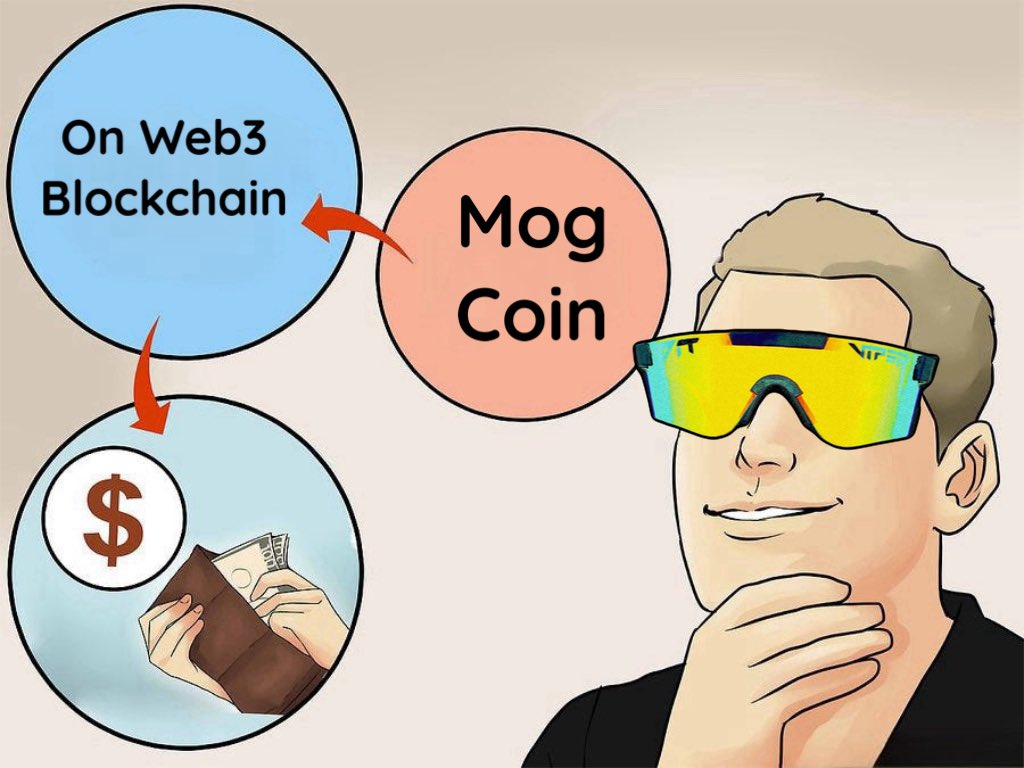
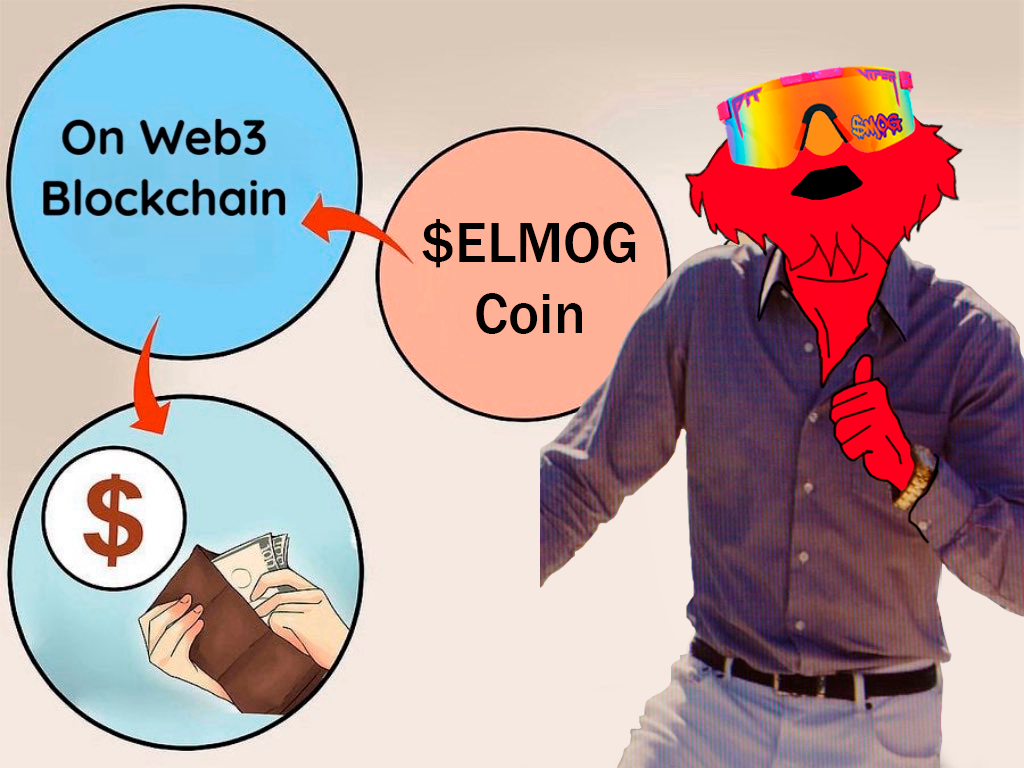
.

diff --git a/components/Footer.js b/components/Footer.js
@@ -24,15 +24,15 @@ export default function Footer() {
               </div>
             </div>
         <div className={`footerAlign ${styles.alignBox}`}>
-          <div className='title'><span >$MOG</span></div>
+          <div className='title'><span >$ELMOG</span></div>
           <div className='socialsContainer'>
-          <a href="https://t.me/mogsoltoken" target="_BLANK" rel="noreferrer">
+          <a href="https://t.me/#" target="_BLANK" rel="noreferrer">
             <div className='socialBox'>
               <Image src="/telegram.png" width="50" height="50" alt="" />
             </div>
           </a>
           <a
-            href="https://twitter.com/MogOnSool"
+            href="https://twitter.com/#"
             target="_BLANK"
             rel="noreferrer"
           >
@@ -41,7 +41,7 @@ export default function Footer() {
             </div>
           </a>
           <a
-            href="https://dexscreener.com/solana/5d7kuV1KutTgZFSkNAoWu3cTfU6oU9WUahfpJ8wCD61u"
+            href="https://dexscreener.com/ethereum/#"
             target="_BLANK"
             rel="noreferrer"
           >
@@ -55,7 +55,7 @@ export default function Footer() {
             </div>
           </a>
 					<a
-            href="https://www.dextools.io/app/es/solana/pair-explorer/5d7kuV1KutTgZFSkNAoWu3cTfU6oU9WUahfpJ8wCD61u"
+            href="https://www.dextools.io/app/es/ether/pair-explorer/#"
             target="_BLANK"
             rel="noreferrer"
           >
@@ -69,7 +69,7 @@ export default function Footer() {
             </div>
           </a>
 					<a
-            href="https://raydium.io/swap/?outputCurrency=5d7kuV1KutTgZFSkNAoWu3cTfU6oU9WUahfpJ8wCD61u"
+            href="https://app.uniswap.org/swap?&chain=mainnet&use=v2&outputCurrency=#"
             target="_BLANK"
             rel="noreferrer"
           >

diff --git a/components/MainScreen.js b/components/MainScreen.js
@@ -11,15 +11,15 @@ export default function MainScreen({name}){
               <span>${name}</span>
             </div>
             <div className="desc">
-              <span>{`$MOG is a movement, it is a way of life. Since day one, $MOG has built its community organically from the ground-up with one goal in mind: to be a culture-defining force in the crypto ecosystem.`}</span>
+              <span>{`$ELMOG is a movement, it is a way of life. Since day one, $ELMOG has built its community organically from the ground-up with one goal in mind: to be a culture-defining force in the crypto ecosystem.`}</span>
             </div>
             <div className="buttonsContainer">
-              <a href='https://raydium.io/swap/?outputCurrency=5d7kuV1KutTgZFSkNAoWu3cTfU6oU9WUahfpJ8wCD61u' target='_BLANK' rel='norefferer'><button>BUY</button></a>
-              <a href='https://dexscreener.com/solana/5d7kuV1KutTgZFSkNAoWu3cTfU6oU9WUahfpJ8wCD61u' target='_BLANK' rel='norefferer'><button>CHART</button></a>
+              <a href='https://app.uniswap.org/swap?&chain=mainnet&use=v2&outputCurrency=#' target='_BLANK' rel='norefferer'><button>BUY</button></a>
+              <a href='https://www.dextools.io/app/es/ether/pair-explorer/#' target='_BLANK' rel='norefferer'><button>CHART</button></a>
             </div>
           </div>
           <div className="rightSide">
-            <div className='imgContainer'><Image src='/logo2.png' fill='responsive' alt=''/></div>
+            <div className='imgContainer'><Image src='/logo4.png' fill='responsive' alt=''/></div>
             <div className="gradiantBg">
               <div className="img">
                 <Image src="/bg.png" fill="relative" alt="" />

diff --git a/components/AboutSection.js b/components/AboutSection.js
@@ -16,9 +16,9 @@ export default function AboutSection({name}){
               <span className='about' id={`${styles.styleGradient}`}>ABOUT ${name}</span>
             </div>
             <div className='desc'>
-              <span>{`$MOG is the internet's first culture coin.`}</span>
-              <span>{`But it's more than just a coin, it's tokenized winning. $MOG is effortless cosmic domination and unaduletared success distilled into computer photons.`}</span>
-              <span>{`Mog is a movement, it is a way of life. Since day one, Mog has built its community organically from the ground-up with one goal in mind: to be a culture-defining force in the crypto ecosystem.`}</span>
+              <span>{`$ELMOG is the internet's first culture coin.`}</span>
+              <span>{`But it's more than just a coin, it's tokenized winning. $ELMOG is effortless cosmic domination and unaduletared success distilled into computer photons.`}</span>
+              <span>{`Elmog is a movement, it is a way of life. Since day one, Elmog has built its community organically from the ground-up with one goal in mind: to be a culture-defining force in the crypto ecosystem.`}</span>
             </div>
           </div>
           <div className='rightSide'>
@@ -75,6 +75,8 @@ export default function AboutSection({name}){
           justify-content: center;
           margin-top: 20px;
           position: relative;
+          border-radius: 20px;
+          overflow: hidden;
         }
 
         .title {

diff --git a/components/HowToBuy.js b/components/HowToBuy.js
@@ -16,10 +16,10 @@ export default function Howtobuy(){
               </span>
             </div>
             <div className="desc">
-              <span>{`To buy $MOG, first you will need a wallet, you can use Phantom Wallet, fill your wallet with SOL, you can buy it from Binance or Coinbase`}</span>
-              <span>{`Swap SOL for $MOG, use Raydium or Birdeye using or Contract Address`}</span>
+              <span>{`To buy $ELMOG, first you will need a wallet, you can use Metamask, fill your wallet with ETH, you can buy it from Binance or Coinbase`}</span>
+              <span>{`Swap ETH for $ELMOG, use Uniswap using or Contract Address`}</span>
             </div>
-            <div className='btnContainer'><a href='https://phantom.app/' target='_BLANK' rel='noreferrer'><button>Get Phantom</button></a></div>
+            <div className='btnContainer'><a href='https://metamask.io/' target='_BLANK' rel='noreferrer'><button>Get Metamask</button></a></div>
             <div className="gradiantBg">
               <div className="img">
                 <Image src="/bg.png" fill="relative" alt="" />

diff --git a/components/Tokenomics.js b/components/Tokenomics.js
@@ -12,17 +12,17 @@ export default function Tokenomics() {
 
           <div className="bodyTokenomics">
           <div className="leftSide">
-            <div className="imgContainer"><Image src='/tknm.jpg' alt='' fill='responsive'/></div>
+            <div className="imgContainer"><Image src='/tknm.png' alt='' fill='responsive'/></div>
           </div>
           <div className="rightSide">
             <div className="boxTxt">
               <span>Total Supply: 1 Billion</span>
             </div>
             <div className="boxTxt">
-              <span>Chain: SOLANA</span>
+              <span>Chain: Ethereum</span>
             </div>
             <div className="boxTxt">
-              <span>Symbol: $MOG</span>
+              <span>Symbol: $ELMOG</span>
             </div>
             <div className="boxTxt lastBox">
               <span>Total Supply: 1 Billion</span>

diff --git a/components/DivisorListing/DivisorListing.js b/components/DivisorListing/DivisorListing.js
@@ -47,11 +47,10 @@ export default function DivisorListing() {
         <div className={`carrouselAlign ${styles.alignBox}`}>
         <Bounce duration={'800'}>
         <Slider {...settings}>
-          <BoxItem srcPath={'/carrousel/birdeye.webp'} w={200} h={80} />
           <BoxItem srcPath={'/carrousel/coingecko.png'} w={200} h={80}/>
           <BoxItem srcPath={'/carrousel/coinmarketcap.png'} w={230} h={50} />
           <BoxItem srcPath={'/carrousel/dextools.png'} w={150} h={50} />
-          <BoxItem srcPath={'/carrousel/raydium.png'} w={180} h={60} />
+          <BoxItem srcPath={'/carrousel/uniswap.png'} w={220} h={60} />
           <BoxItem srcPath={'/carrousel/dexscreener.png'} w={180} h={50} />
         </Slider>
         </Bounce>

diff --git a/src/pages/index.js b/src/pages/index.js
@@ -25,15 +25,15 @@ export default function Home() {
   return (
     <>
       <Head>
-        <title>$MOG | SOLANA</title>
+        <title>$ELMOG | ETH</title>
         <meta name="viewport" content="width=device-width, initial-scale=1" />
         <link rel="icon" href="/favicon.ico" />
       </Head>
       <main className={`${roboto.variable} ${row.variable}`}>
-        <Navbar name='MOG'/>
-        <MainScreen name='MOG'/>
+        <Navbar name='ELMOG'/>
+        <MainScreen name='ELMOG'/>
         <DivisorListing />
-        <AboutSection name='MOG'/>
+        <AboutSection name='ELMOG'/>
         <Howtobuy />
         <Tokenomics />
         <Footer />

diff --git a/components/Navbar.js b/components/Navbar.js
@@ -30,7 +30,7 @@ export default function Navbar({name}) {
             <Link href='#home'><span>Home</span></Link>
             <Link href='#htb'><span>How to buy</span></Link>
             <Link href='#tokenomics'><span>Tokenomics</span></Link>
-            <span className='last'><a href='https://t.me/mogsoltoken' rel='noreferrer' target="_BLANK">Join the Community!</a></span>
+            <span className='last'><a href='https://t.me/#' rel='noreferrer' target="_BLANK">Join the Community!</a></span>
           </div>
           <div className='rightSideMobile' onClick={n}>
           {openMobileMenu ? (
